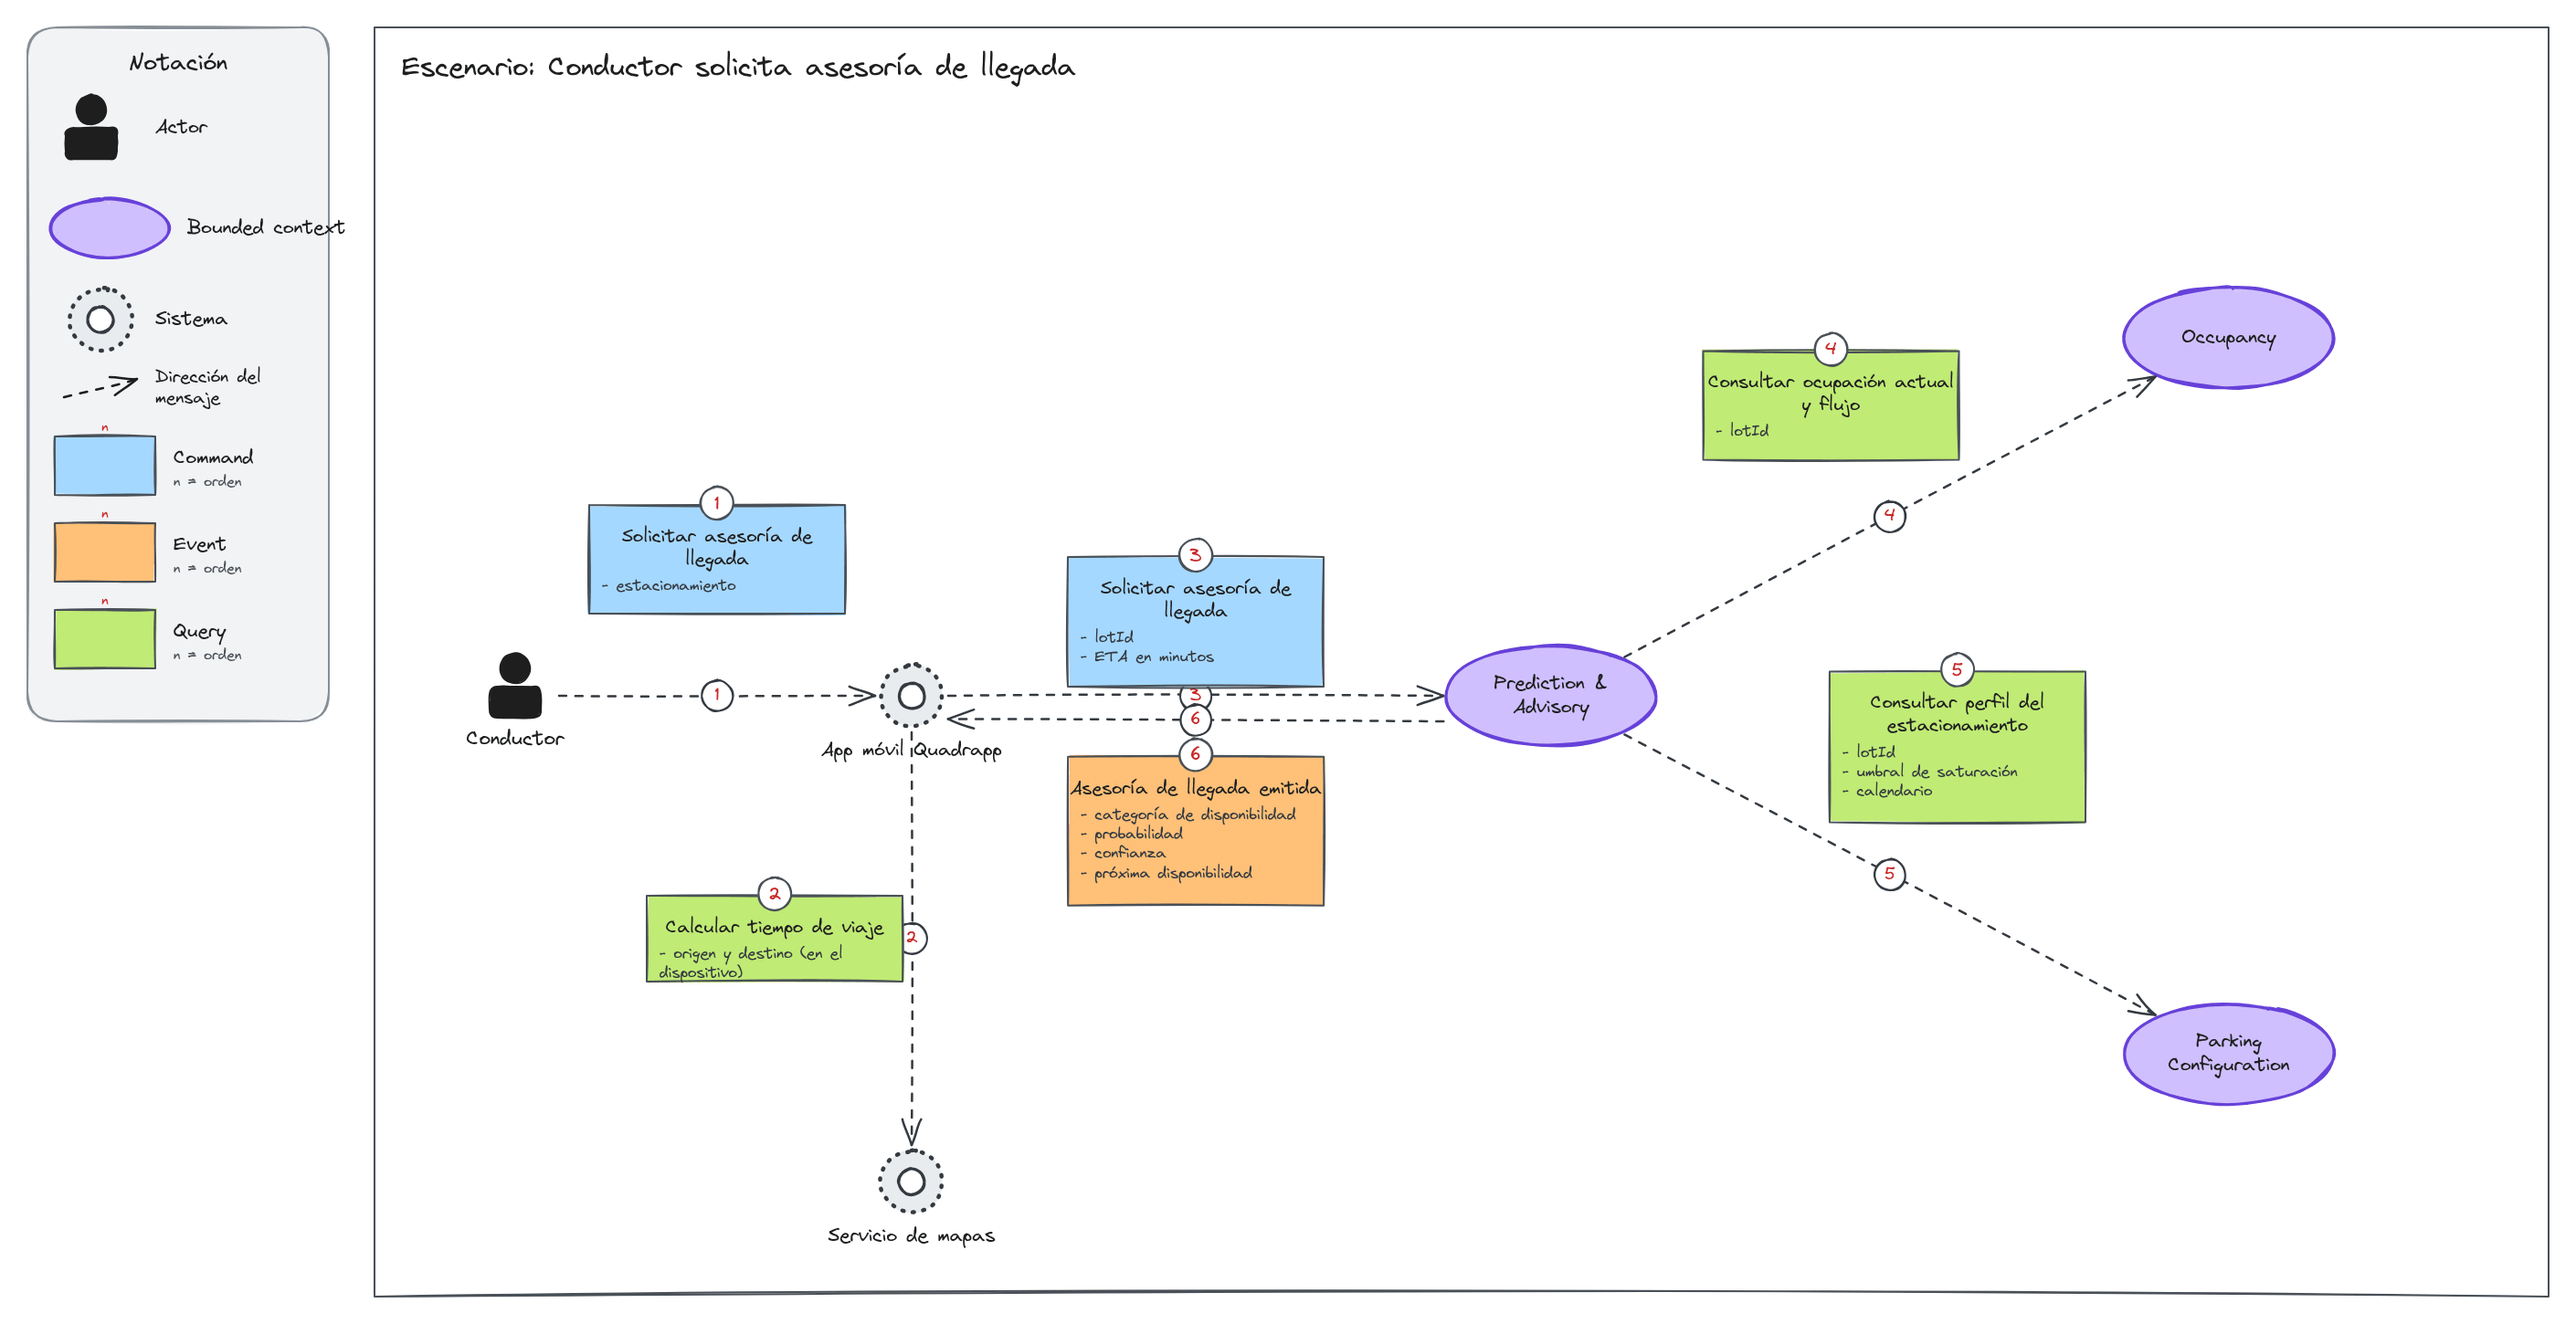
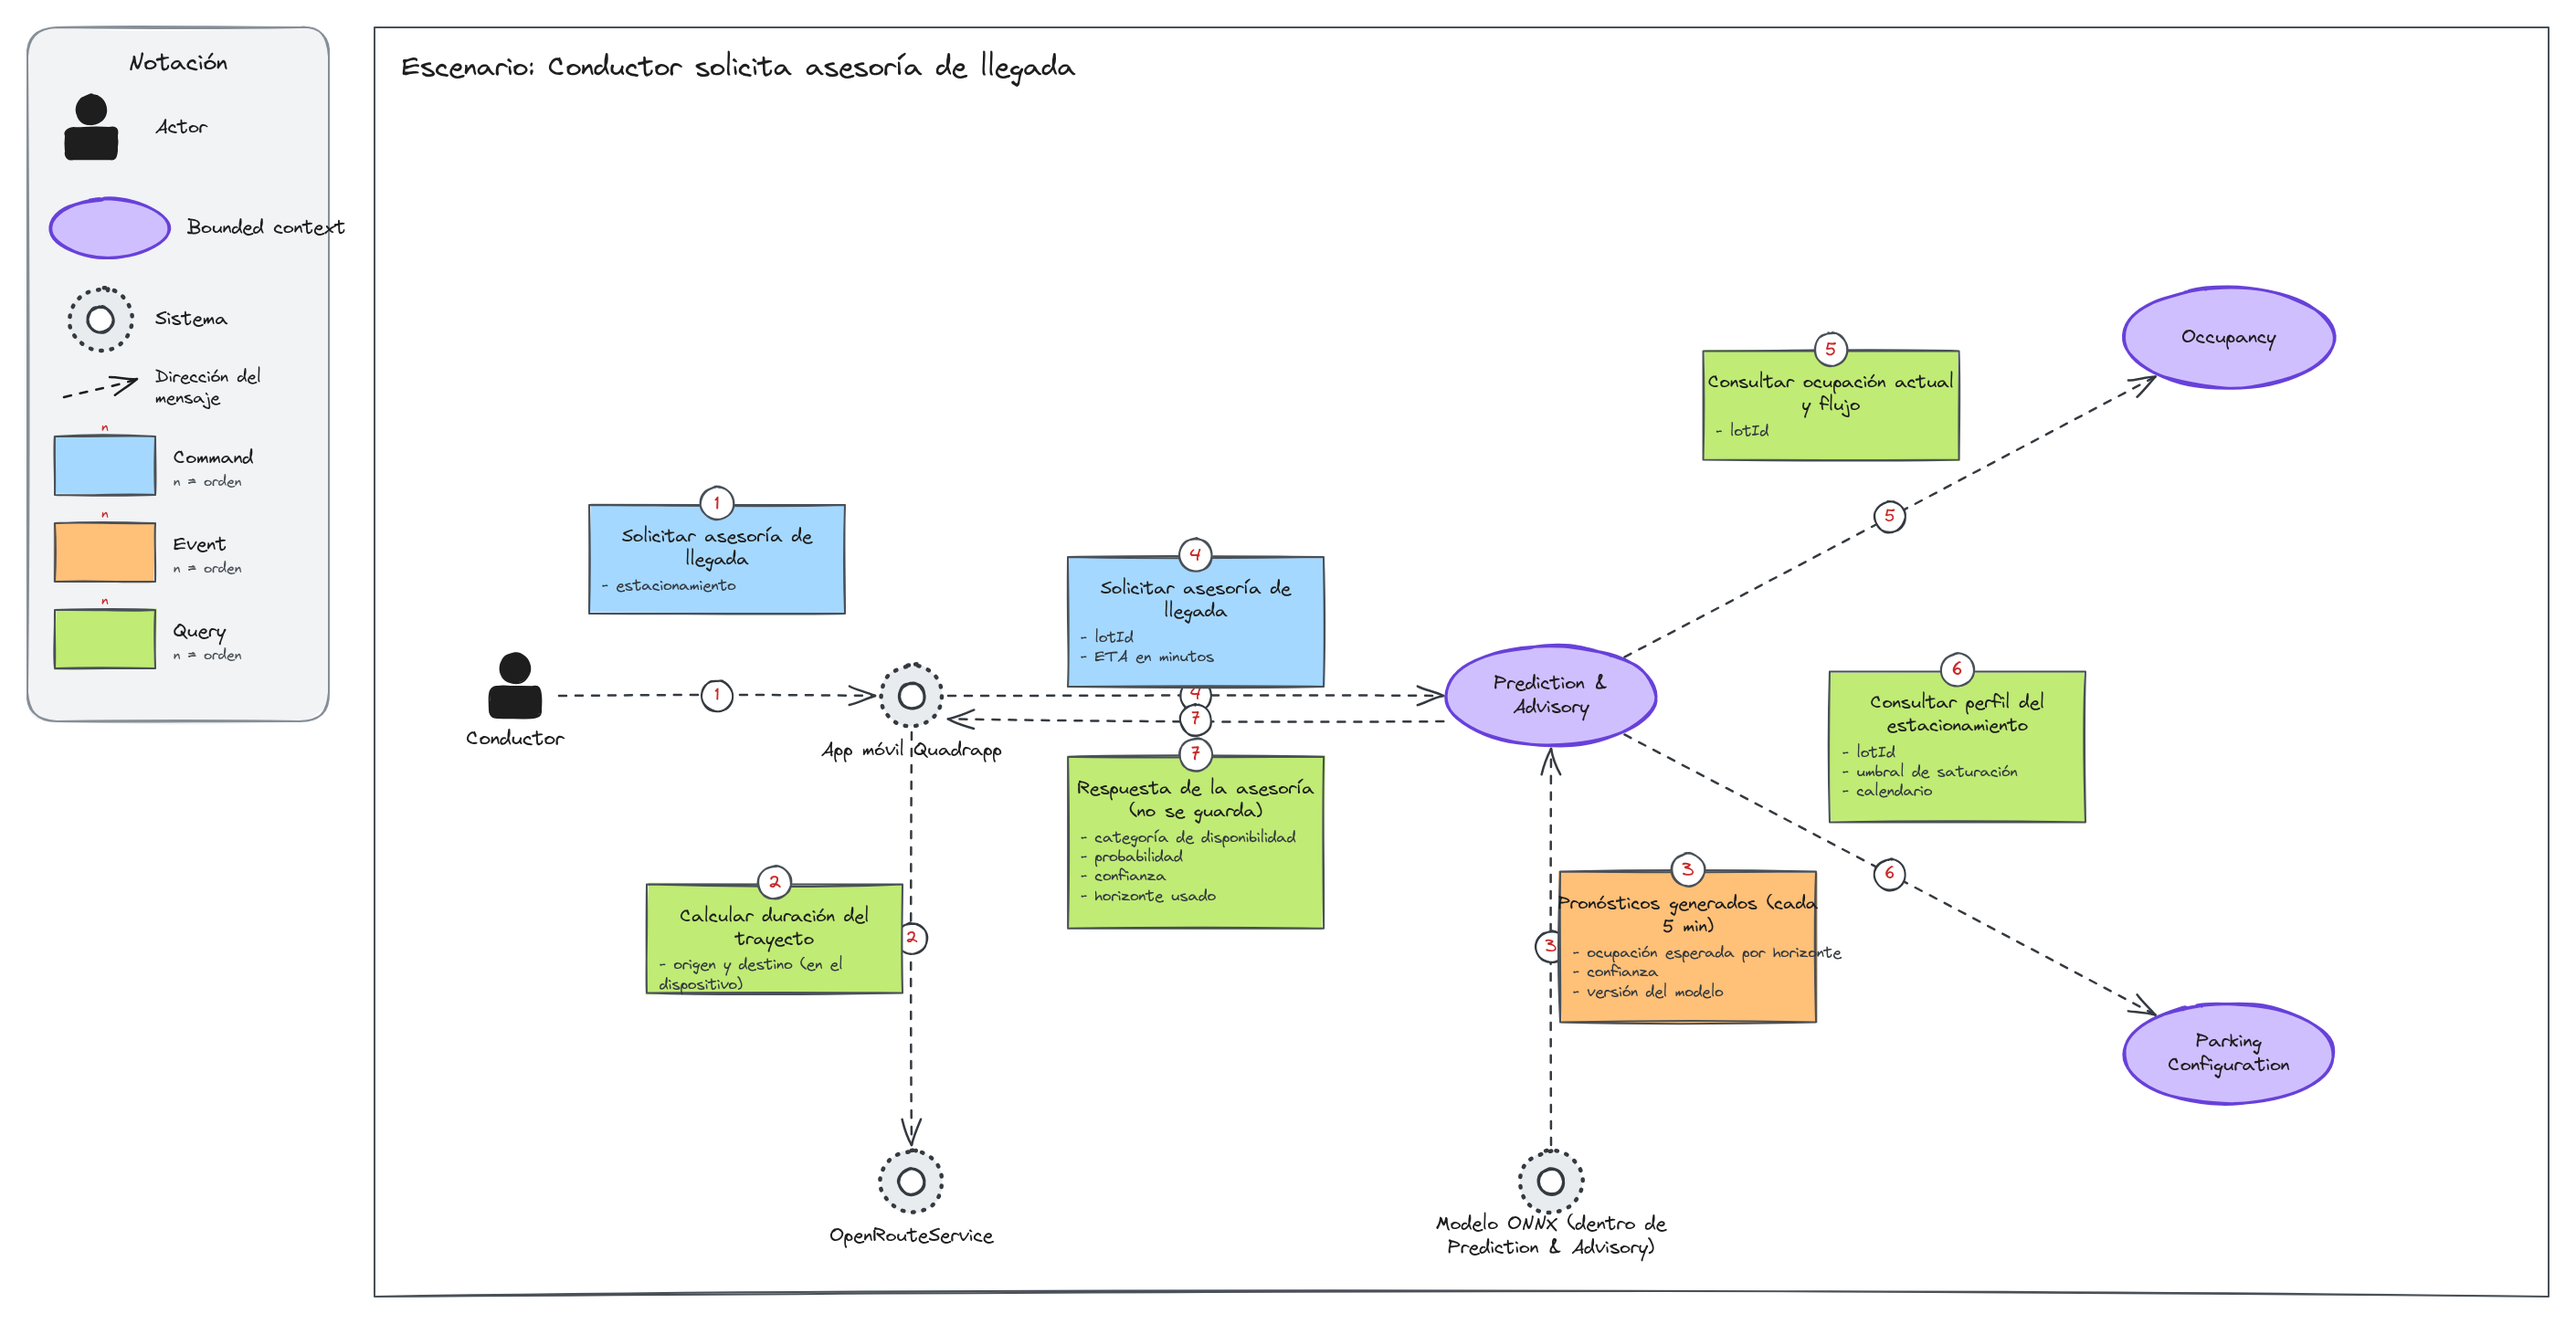
docs(chapter-04): redraw advice, saturation and failure message flows

diff --git a/README.md b/README.md
@@ -3416,7 +3416,7 @@ En el sensado, los sensores de cochera y de paso publican las lecturas, y el gat
 
 *Figura: EventStorming, paso 8 (External Systems), fase de sensado y ocupación.*
 
-En la predicción intervienen el servicio de correo, que entrega al conductor su código de acceso desde IAM, el proveedor de mensajería push, que entrega las alertas, y el servicio de mapas. Este último se consulta solo desde el dispositivo del conductor para calcular el tiempo estimado de llegada; el servidor recibe únicamente los minutos, como establece CON-07.
+En la predicción intervienen el servicio de correo, que entrega al conductor su código de acceso desde IAM, Firebase Cloud Messaging, que entrega las alertas, y OpenRouteService. Este último se consulta solo desde el dispositivo del conductor para calcular el tiempo estimado de llegada; el servidor recibe únicamente los minutos, como establece CON-07.
 
 ![EventStorming paso 8: sistemas externos de la predicción, la asesoría y las alertas](assets/capitulo-04/eventstorming/eventstorming-paso-08c-prediccion.png)
 
@@ -3512,7 +3512,7 @@ El resultado del proceso son siete contextos candidatos, que se resumen en la ta
 | Parking Sensing | Soporte | Traducir la telemetría de los sensores en detecciones confiables y vigilar su salud | Lectura validada, Detección confirmada, Falla de sensor detectada |
 | Occupancy | Soporte | Mantener el estado de cada espacio, la disponibilidad y el flujo vehicular | Espacio marcado como ocupado, Espacio marcado como desconocido, Disponibilidad actualizada |
 | Analytics | Soporte | Consolidar el historial y medir la precisión del modelo | Pronóstico evaluado con la ocupación observada, Precisión del modelo recalculada |
-| Notifications | Soporte | Enviar alertas push de baja disponibilidad según las franjas suscritas, y avisos operativos de fallas, ingesta interrumpida y eventos del campus | Suscripción a alertas registrada, Alerta de baja disponibilidad enviada |
+| Notifications | Soporte | Enviar alertas push de saturación prevista y de poca disponibilidad según las franjas suscritas, y avisos operativos de fallas, ingesta interrumpida y eventos del campus | Suscripción a alertas registrada, Alerta de baja disponibilidad enviada |
 | IAM | Genérico | Gestionar instituciones, invitaciones, acceso con código de un solo uso y roles | Institución dada de alta, Sesión iniciada |
 
 ### 4.2.3. Domain Message Flows Modeling
